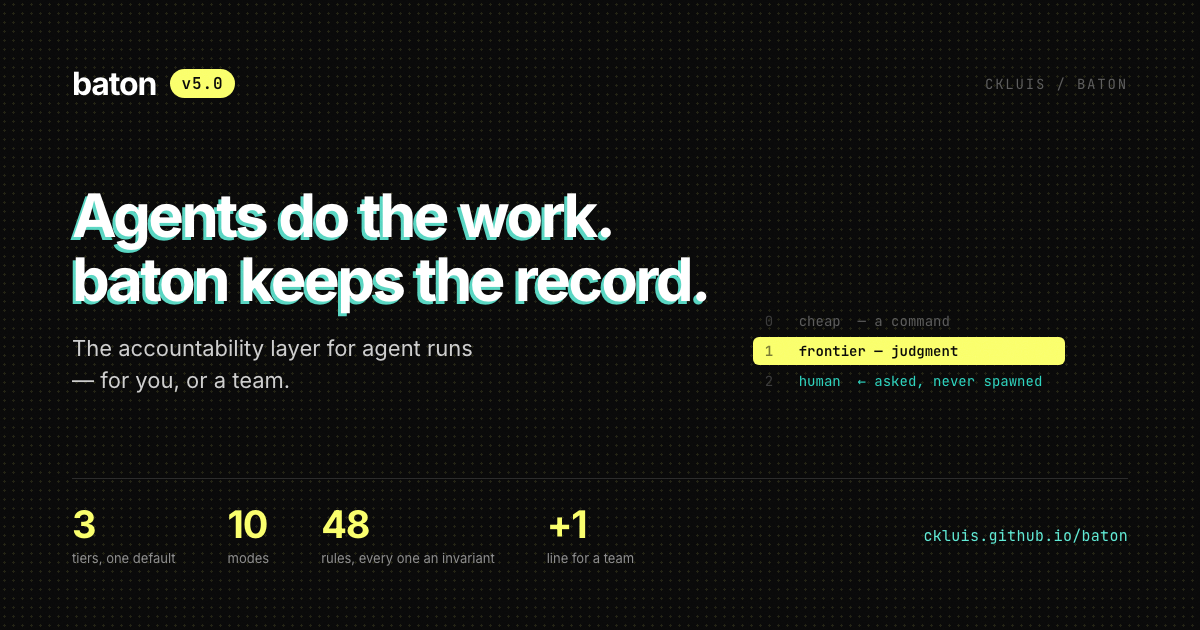
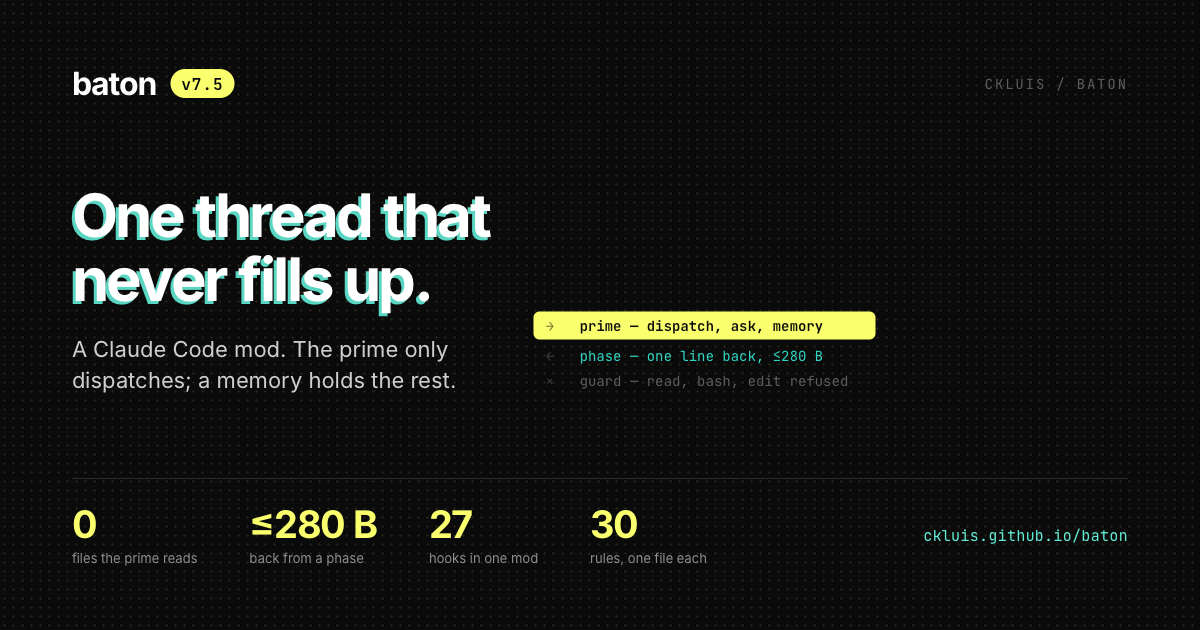
v7.5 labels everywhere; install URLs on a tag that exists
The paste-in prompts fetched from tags v4.0, v6.0 and v7.0, none of which were
ever pushed, so every pinned URL returned 404. Tag v7.5 is now on main's merge
of #52, and the page, README, prompt/invoke.md and migrations/from-v1.md point
at it.

The page's status chip said v7.2, the README v7.0 and mod/README 7.0.0-dev;
all now say 7.5. The social card was still v5 (3 tiers, 10 modes, 48 rules):
it now shows v7 (one thread that never fills up; 0 files the prime reads,
≤280 B back from a phase, 27 hooks, 30 rules).

diff --git a/index.html b/index.html
@@ -13,7 +13,7 @@
 <meta property="og:image" content="https://ckluis.github.io/baton/previews/social-baton.png">
 <meta property="og:image:width" content="1200">
 <meta property="og:image:height" content="630">
-<meta property="og:image:alt" content="baton — agents do the work, baton keeps the record.">
+<meta property="og:image:alt" content="baton v7.5 — one thread that never fills up.">
 <meta name="twitter:card" content="summary_large_image">
 <meta name="twitter:site" content="@ckluis">
 <meta name="twitter:creator" content="@ckluis">
@@ -292,7 +292,7 @@ footer .wrap{display:flex;justify-content:space-between;gap:20px;flex-wrap:wrap}
 
 <header class="hero" id="top">
   <div class="wrap">
-    <span class="status"><b>v7.2</b> a Claude Code mod · Claude Code 2.1.287 · Opus 5.5 + Sonnet 5.5</span>
+    <span class="status"><b>v7.5</b> a Claude Code mod · Claude Code 2.1.287 · Opus 5.5 + Sonnet 5.5</span>
     <h1>One thread that<br><em>never fills up.</em></h1>
     <p class="lede">The prime only dispatches. It never reads a file, runs a command or holds a work product: a mod
       refuses it. It hands goals to sub-orchestrators, which dispatch agents or do the work themselves and hand
@@ -980,10 +980,10 @@ claude --plugin-dir ./mod
 Find and fix what the test suite is failing to catch in the billing module.
 
 # Process
-Fetch and follow https://raw.githubusercontent.com/ckluis/baton/v7.0/prompt/baton.md
+Fetch and follow https://raw.githubusercontent.com/ckluis/baton/v7.5/prompt/baton.md
 You are the PRIME ORCHESTRATOR it describes. Resolve every other file it names
 against that same base URL. Read it completely before you start any work.
-Migrating from an earlier version? Read https://github.com/ckluis/baton/blob/v7.0/MIGRATING.md</pre>
+Migrating from an earlier version? Read https://github.com/ckluis/baton/blob/v7.5/MIGRATING.md</pre>
         </div>
         <div class="codebox" style="margin-top:12px">
           <div class="codebar"><div><b>for a team</b> &middot; 10 lines</div></div>
@@ -994,7 +994,7 @@ Find and fix what the test suite is failing to catch in the billing module.
 TEAM:        github
 
 # Process
-Fetch and follow https://raw.githubusercontent.com/ckluis/baton/v7.0/prompt/baton.md
+Fetch and follow https://raw.githubusercontent.com/ckluis/baton/v7.5/prompt/baton.md
 You are the PRIME ORCHESTRATOR it describes. Resolve every other file it names
 against that same base URL. Read it completely before you start any work.</pre>
         </div>

diff --git a/previews/_social-src.html b/previews/_social-src.html
@@ -32,25 +32,25 @@ h1::before{content:attr(data-reg);position:absolute;left:-3px;top:3px;z-index:-1
 </style></head><body>
 <div class="halftone"></div><div class="grain"></div>
 <div class="pad">
-  <div class="top"><span class="wm">baton</span><span class="v2">v5.0</span><span class="src">ckluis / baton</span></div>
+  <div class="top"><span class="wm">baton</span><span class="v2">v7.5</span><span class="src">ckluis / baton</span></div>
   <div class="mid">
     <div>
-      <h1 data-reg="Agents do the work." style="font-size:60px;white-space:nowrap">Agents do the work.</h1><br>
-      <h1 data-reg="baton keeps the record." style="font-size:60px;white-space:nowrap;margin-top:4px">baton keeps the record.</h1>
-      <div class="sub" style="max-width:30ch">The accountability layer for agent runs &mdash; for you, or a team.</div>
+      <h1 data-reg="One thread that" style="font-size:60px;white-space:nowrap">One thread that</h1><br>
+      <h1 data-reg="never fills up." style="font-size:60px;white-space:nowrap;margin-top:4px">never fills up.</h1>
+      <div class="sub" style="max-width:30ch">A Claude Code mod. The prime only dispatches; a memory holds the rest.</div>
     </div>
-    <div class="rungs" style="min-width:300px">
-      <div class="r"><i>0</i>cheap &nbsp;&mdash; a command</div>
-      <div class="r on"><i>1</i>frontier &mdash; judgment</div>
-      <div class="r gated"><i>2</i>human &nbsp;&larr; asked, never spawned</div>
+    <div class="rungs" style="min-width:330px">
+      <div class="r on"><i>&#8594;</i>prime &mdash; dispatch, ask, memory</div>
+      <div class="r gated"><i>&#8592;</i>phase &mdash; one line back, &le;280 B</div>
+      <div class="r"><i>&times;</i>guard &mdash; read, bash, edit refused</div>
     </div>
   </div>
   <div class="bot">
     <div class="stats">
-      <div class="s"><b>3</b><span>tiers, one default</span></div>
-      <div class="s"><b>10</b><span>modes</span></div>
-      <div class="s"><b>48</b><span>rules, every one an invariant</span></div>
-      <div class="s"><b>+1</b><span>line for a team</span></div>
+      <div class="s"><b>0</b><span>files the prime reads</span></div>
+      <div class="s"><b>&le;280 B</b><span>back from a phase</span></div>
+      <div class="s"><b>27</b><span>hooks in one mod</span></div>
+      <div class="s"><b>30</b><span>rules, one file each</span></div>
     </div>
     <span class="url">ckluis.github.io/baton</span>
   </div>

diff --git a/README.md b/README.md
@@ -1,6 +1,6 @@
 # baton
 
-**v7.0** · Agents do the work. baton keeps the record.
+**v7.5** · Agents do the work. baton keeps the record.
 
 **v7 is a Claude Code mod** (`mod/`): a prime orchestrator that only dispatches, a memory instead
 of a growing context, rulings that stick, the agent tree in a pane, and approvals from anywhere in
@@ -442,10 +442,10 @@ its past reviews found 6.00 of 6 per task, and so did a plain reviewer
 Find and fix what the test suite is failing to catch in the billing module.
 
 # Process
-Fetch and follow https://raw.githubusercontent.com/ckluis/baton/v6.0/prompt/baton.md
+Fetch and follow https://raw.githubusercontent.com/ckluis/baton/v7.5/prompt/baton.md
 You are the PRIME ORCHESTRATOR it describes. Resolve every other file it names
 against that same base URL. Read it completely before you start any work.
-Migrating from an earlier version? Read https://github.com/ckluis/baton/blob/v6.0/MIGRATING.md
+Migrating from an earlier version? Read https://github.com/ckluis/baton/blob/v7.5/MIGRATING.md
 ```
 
 Say what you want, paste, answer one question. The router reads your goal, works
@@ -469,7 +469,7 @@ Find and fix what the test suite is failing to catch in the billing module.
 TEAM:        github
 
 # Process
-Fetch and follow https://raw.githubusercontent.com/ckluis/baton/v6.0/prompt/baton.md
+Fetch and follow https://raw.githubusercontent.com/ckluis/baton/v7.5/prompt/baton.md
 You are the PRIME ORCHESTRATOR it describes. Resolve every other file it names
 against that same base URL. Read it completely before you start any work.
 ```

diff --git a/prompt/invoke.md b/prompt/invoke.md
@@ -14,10 +14,10 @@ read, not for you to carry. The invocation just says where it lives.
 Find and fix what the test suite is failing to catch in the billing module.
 
 # Process
-Fetch and follow https://raw.githubusercontent.com/ckluis/baton/v7.0/prompt/baton.md
+Fetch and follow https://raw.githubusercontent.com/ckluis/baton/v7.5/prompt/baton.md
 You are the PRIME ORCHESTRATOR it describes. Resolve every other file it names
 against that same base URL. Read it completely before you start any work.
-Migrating from an earlier version? Read https://github.com/ckluis/baton/blob/v7.0/MIGRATING.md
+Migrating from an earlier version? Read https://github.com/ckluis/baton/blob/v7.5/MIGRATING.md
 ```
 
 Say what you want, paste, answer one question. The router reads your goal, works
@@ -45,7 +45,7 @@ Find and fix what the test suite is failing to catch in the billing module.
 TEAM:        github
 
 # Process
-Fetch and follow https://raw.githubusercontent.com/ckluis/baton/v7.0/prompt/baton.md
+Fetch and follow https://raw.githubusercontent.com/ckluis/baton/v7.5/prompt/baton.md
 You are the PRIME ORCHESTRATOR it describes. Resolve every other file it names
 against that same base URL. Read it completely before you start any work.
 ```

diff --git a/mod/README.md b/mod/README.md
@@ -18,7 +18,7 @@ write.
 
 | path | what |
 |---|---|
-| `.claude-plugin/plugin.json` | `baton` 7.0.0-dev. The `userConfig` fields are `rotateAtPercent` (35), `wakeBudgetLines` (96) and `memoryDir` (`.baton/memory`). |
+| `.claude-plugin/plugin.json` | `baton` 7.5.0. The `userConfig` fields are `rotateAtPercent` (35), `wakeBudgetLines` (96) and `memoryDir` (`.baton/memory`). |
 | `hooks/register.js` | the hooks module: guard, memory tools, return notes, merges, rotation, binding, `/baton`, pane, band, spinner |
 | `lib/memcore.mjs` | the memory core, pure (no Node): records, tree math, wake tiling, zoom, recall, merge prompt |
 | `lib/memstore.mjs` | the core on disk (Node): fixed-width files, the lockfile, merges, views |

diff --git a/migrations/from-v1.md b/migrations/from-v1.md
@@ -18,7 +18,7 @@ Stop pasting the prompt. Paste this instead:
 <what you want, in your own words>
 
 # Process
-Fetch and follow https://raw.githubusercontent.com/ckluis/baton/v4.0/prompt/baton.md
+Fetch and follow https://raw.githubusercontent.com/ckluis/baton/v7.5/prompt/baton.md
 You are the PRIME ORCHESTRATOR it describes. Resolve every other file it names
 against that same base URL. Read it completely before you start any work.
 ```
